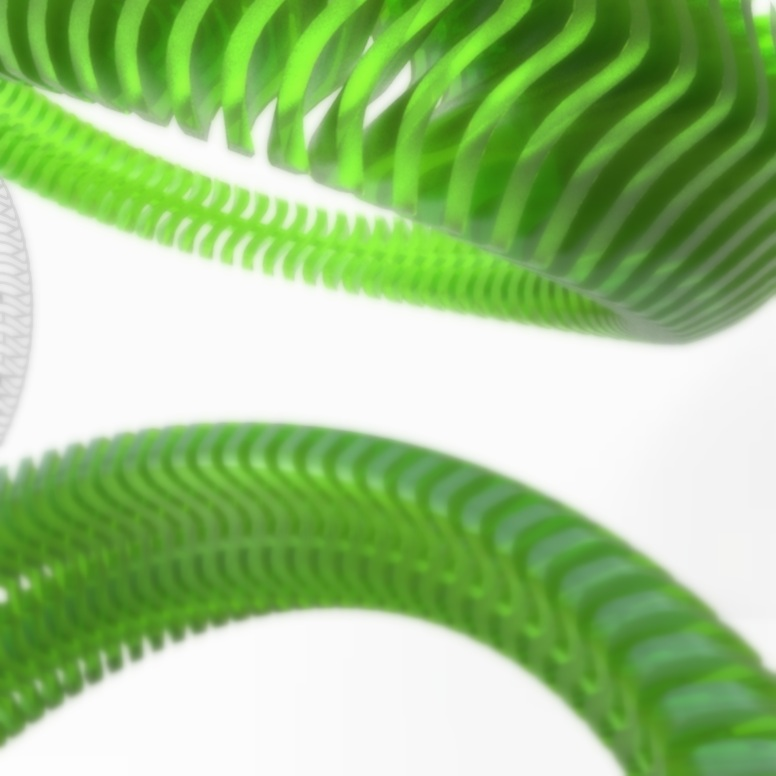
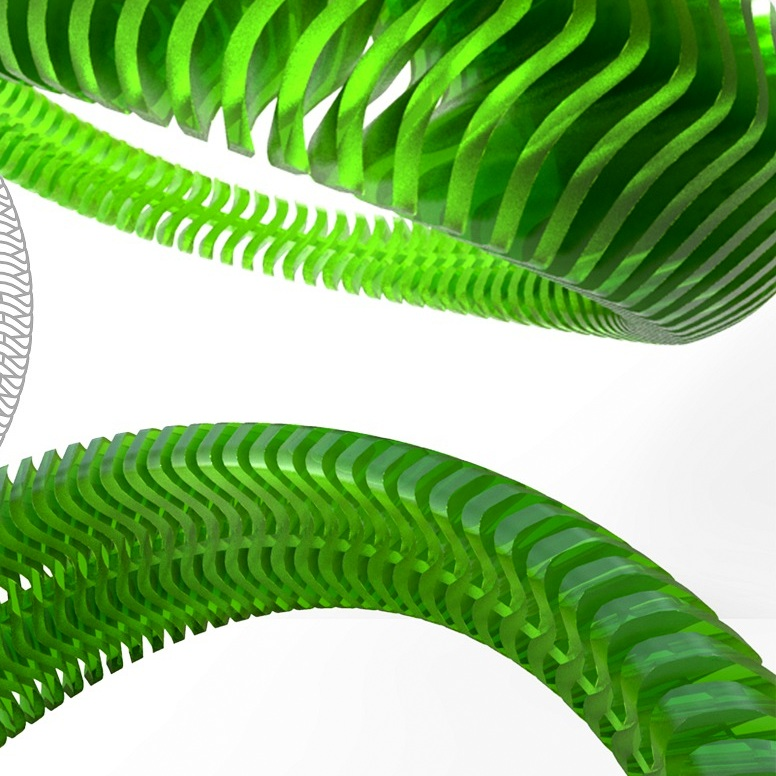
form

diff --git a/index.html b/index.html
@@ -259,11 +259,11 @@
 
 		              <div data-albumid="6" class="element-item design ">
 		                <a class="p-scroll" href="#portfolio-anchor">
-		                  <img class="replace-2x" src="images/portfolio/prev/6.jpg" width="348" height="244" alt="The Image">
+		                  <img class="replace-2x" src="images/portfolio/form/thumb.jpg" width="348" height="244" alt="The Image">
 		                  <div class="overlay">
 		                    <img class="p-target svg" src="images/target.svg" alt="The Image">
 		                    <div class="p-title">
-		                      <h3 class="name">Business Card Mock-upChinese Restaurant Logo<br><span>Design</span></h3>
+		                      <h3 class="name">Form Exploration<br><span>Industrial Design</span></h3>
 		                    </div>
 		                  </div>
 		                </a>
